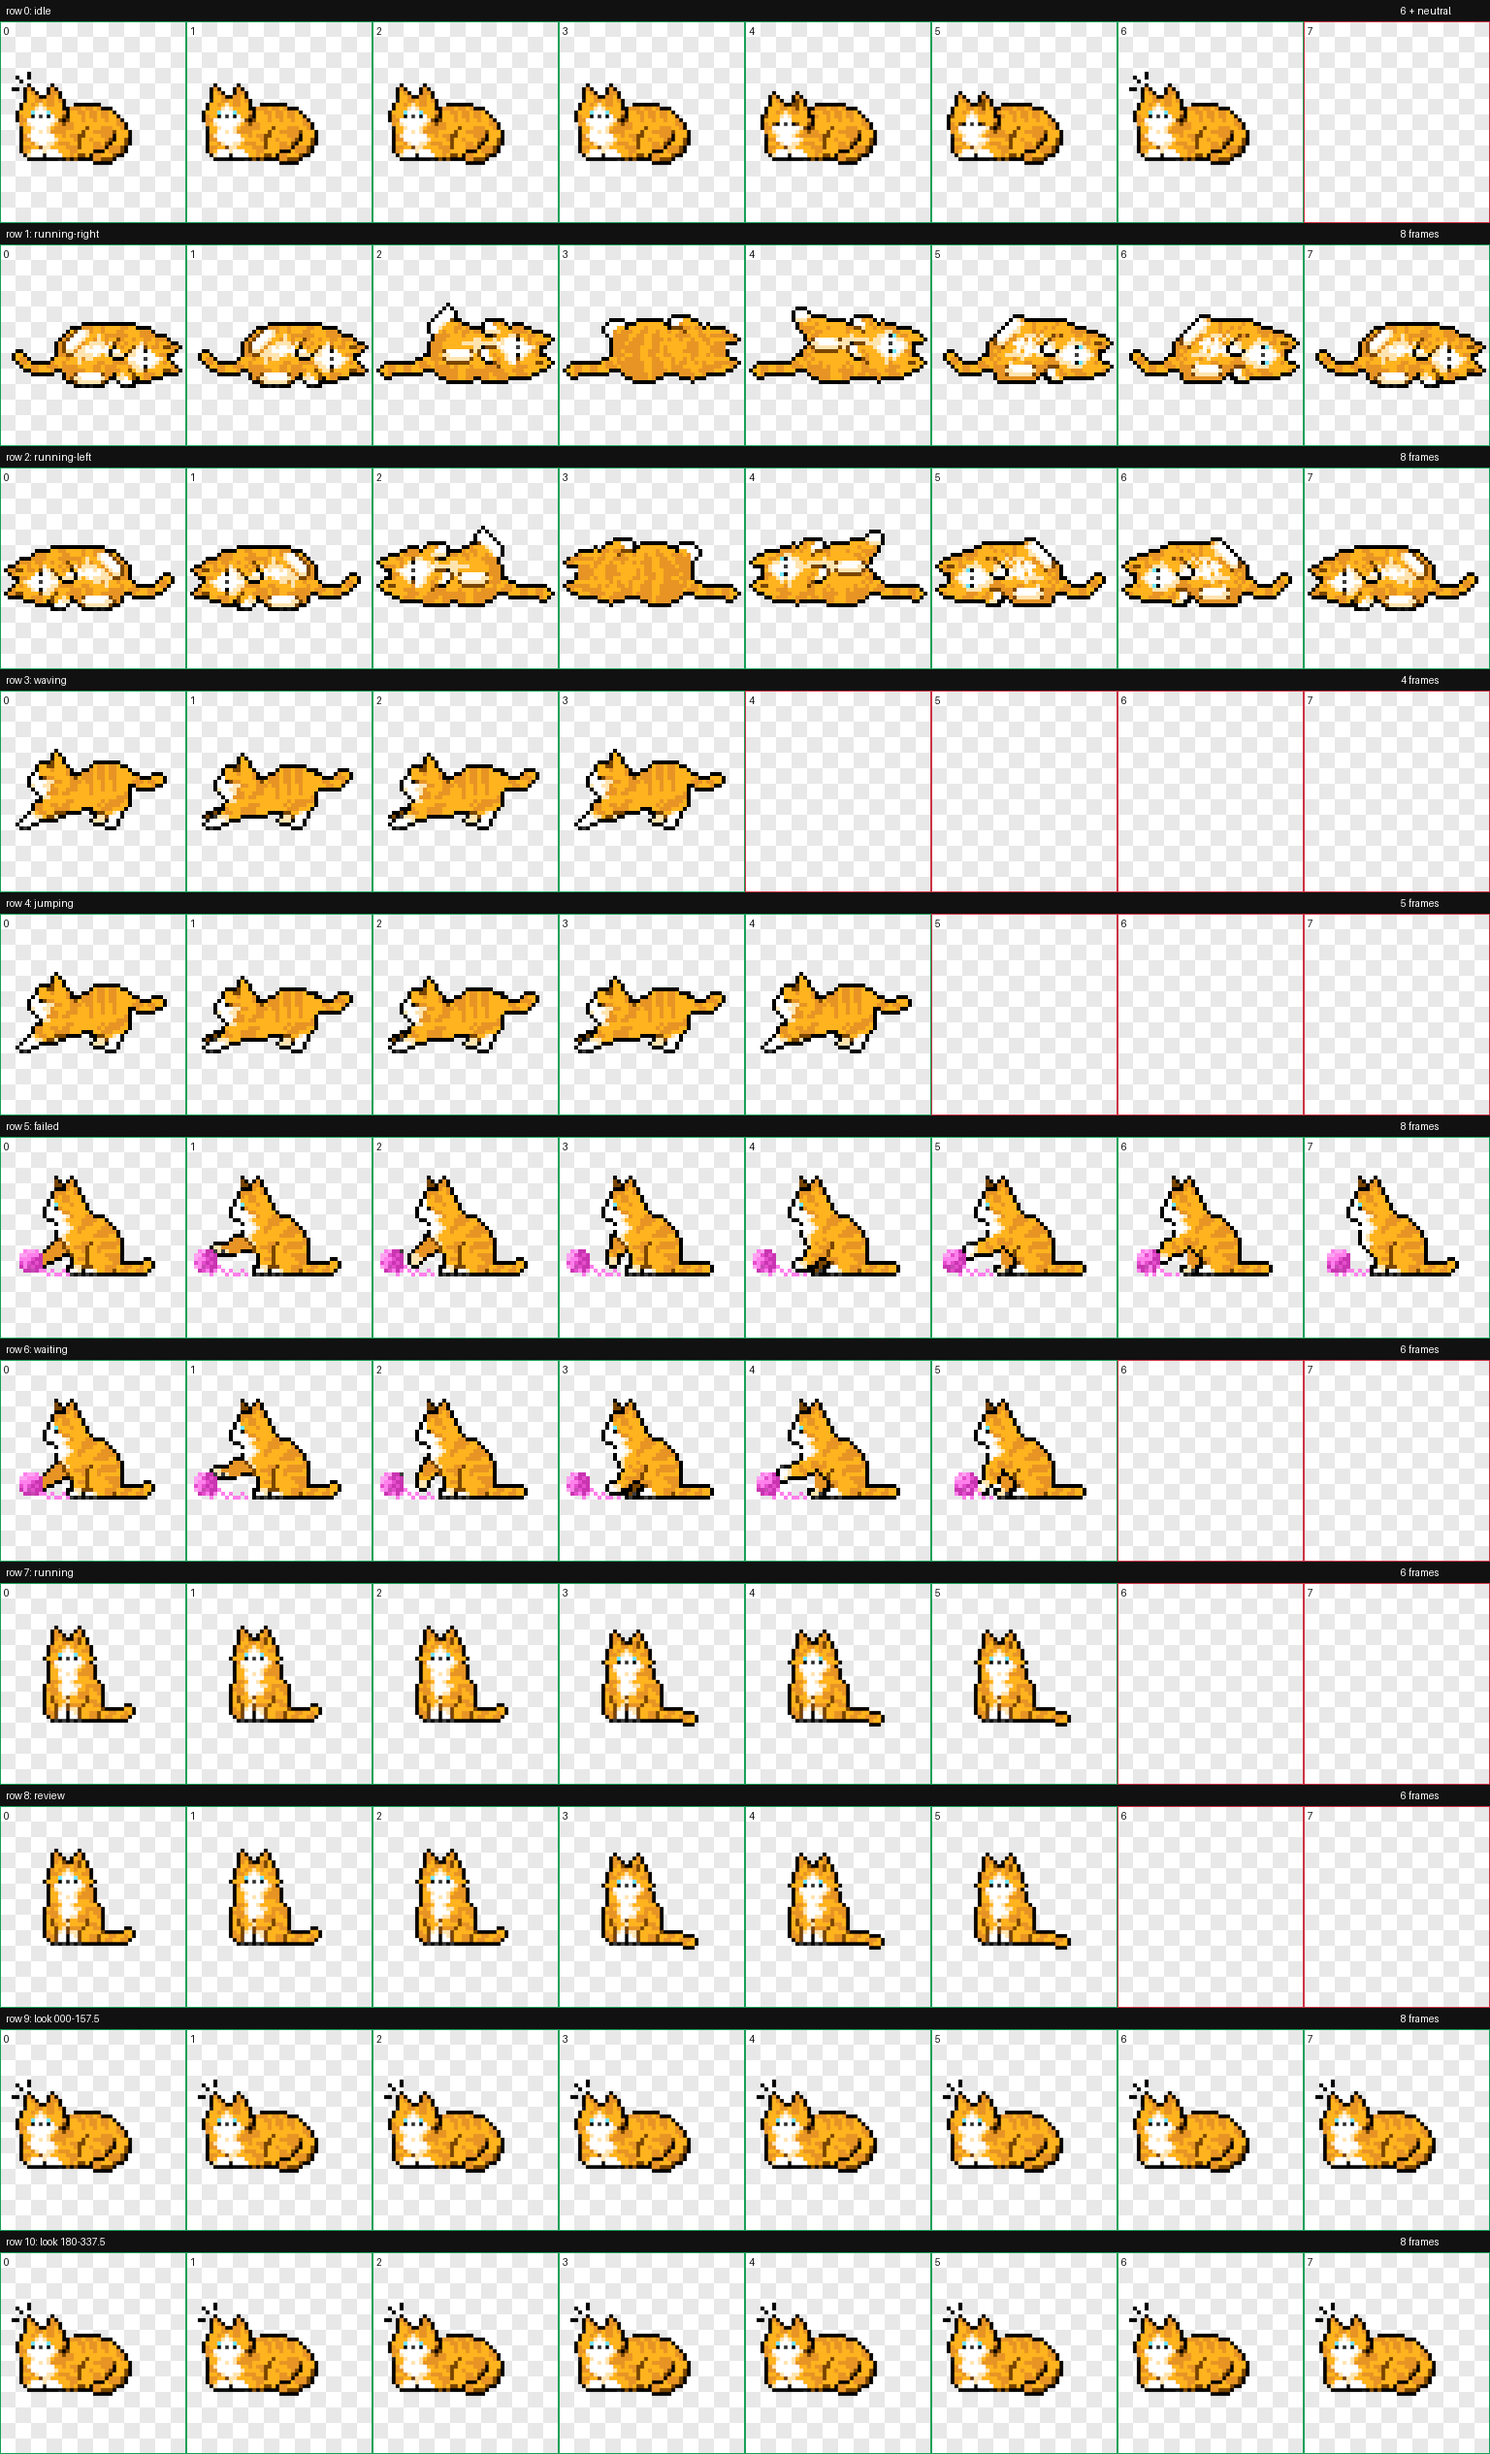
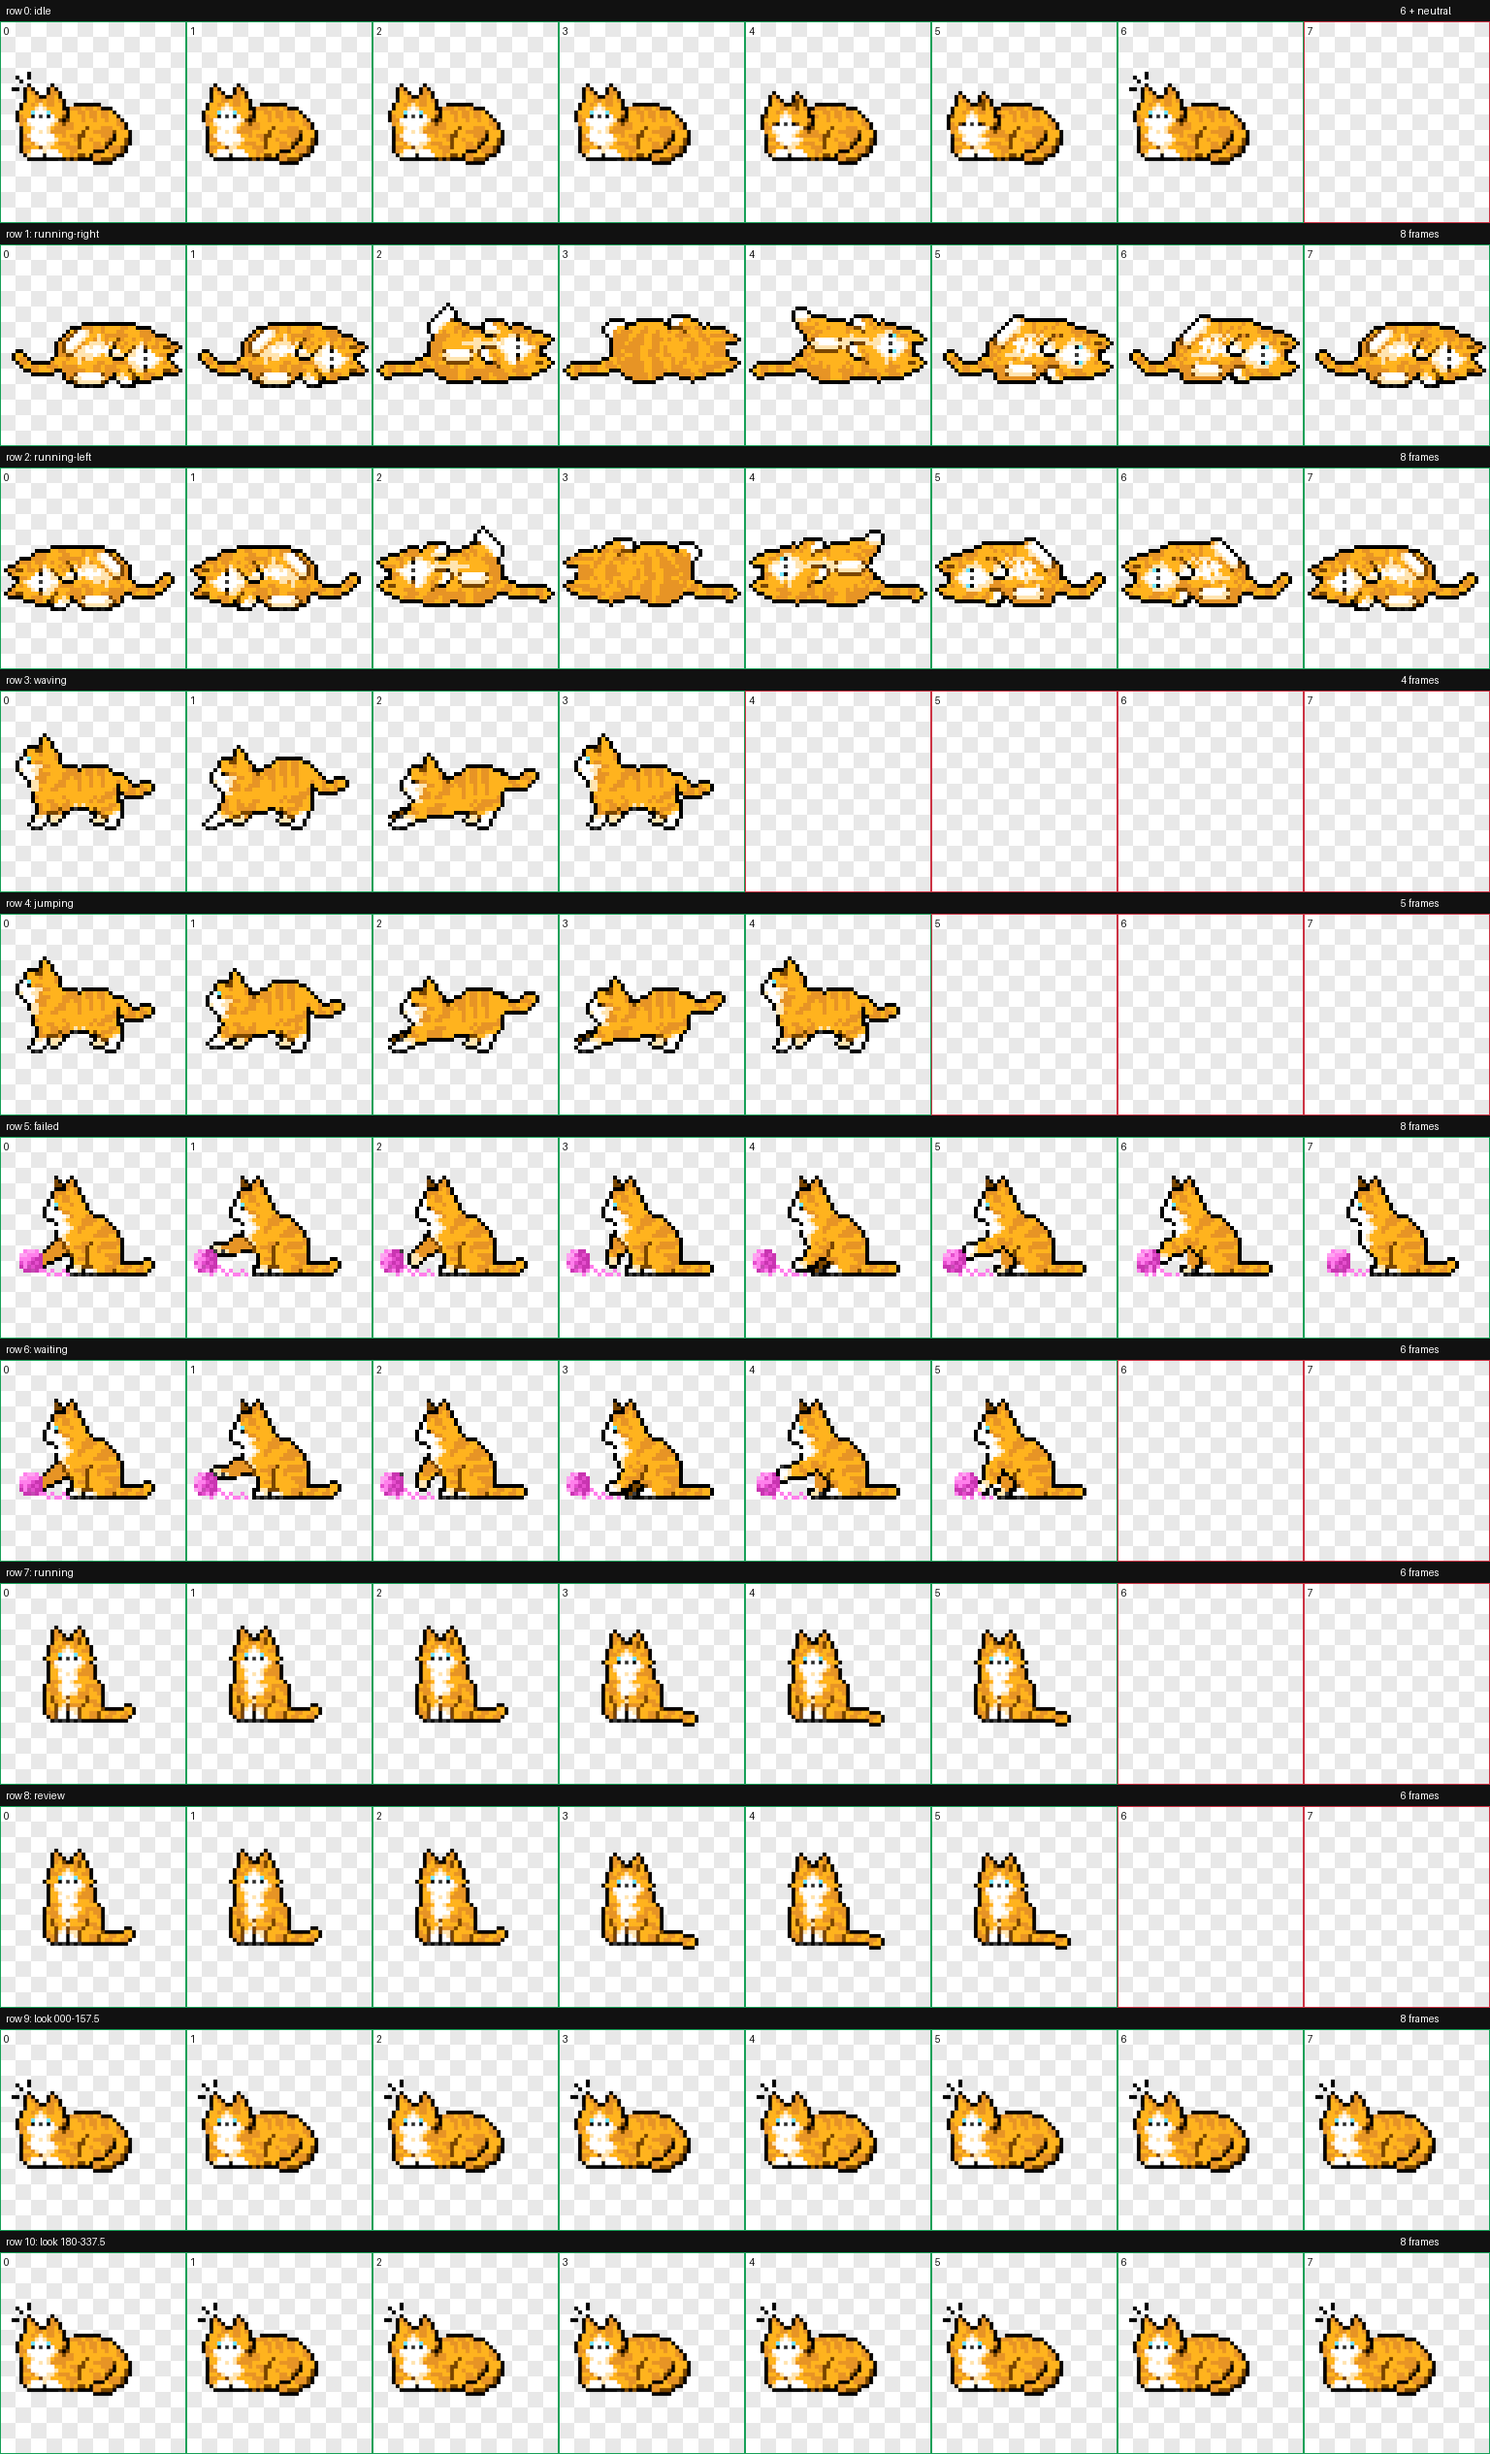
[fix] stretch 전체 동작 복원

diff --git a/scripts/build_pet_atlas.py b/scripts/build_pet_atlas.py
@@ -36,8 +36,8 @@ STANDARD_ROWS = (
     RowMapping("idle", "sleep", (0, 1, 1, 1, 2, 2)),
     RowMapping("running-right", "roll", (0, 0, 4, 8, 12, 16, 16, 0), mirror=True),
     RowMapping("running-left", "roll", (0, 0, 4, 8, 12, 16, 16, 0)),
-    RowMapping("waving", "stretch", (6, 7, 7, 6)),
-    RowMapping("jumping", "stretch", (6, 7, 7, 7, 6)),
+    RowMapping("waving", "stretch", (0, 5, 10, 16)),
+    RowMapping("jumping", "stretch", (0, 4, 8, 12, 16)),
     RowMapping("failed", "play", (0, 2, 3, 5, 6, 8, 9, 11)),
     RowMapping("waiting", "play", (0, 2, 4, 6, 8, 10)),
     RowMapping("running", "idle", (0, 0, 0, 1, 1, 1)),
@@ -74,9 +74,11 @@ RUNTIME_APPROXIMATION = {
         "requested_slowdown": 3.0,
         "requested_visible_repetitions": 1,
         "runtime_repetitions": 3,
-        "technique": "Animate only the fully stretched source range with repeated holds.",
-        "waving_source_indices": [6, 7, 7, 6],
-        "jumping_source_indices": [6, 7, 7, 7, 6],
+        "achieved_slowdown": None,
+        "technique": "Preserve one complete source stretch cycle in every runtime cycle.",
+        "waving_source_indices": [0, 5, 10, 16],
+        "jumping_source_indices": [0, 4, 8, 12, 16],
+        "limitation": "The runtime still repeats the complete cycle three times.",
     },
     "seated_idle": {
         "affected_states": ["running", "review"],
